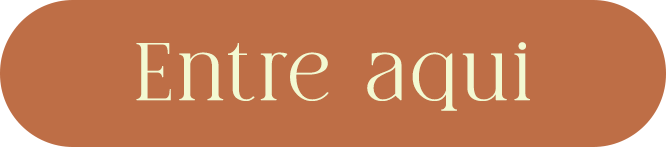
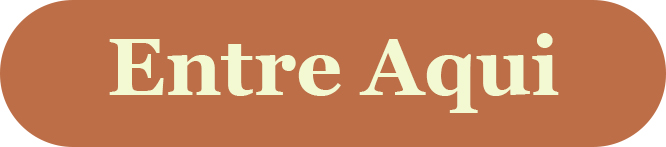
Alteração do botão da página index

Changed region(s): [[0.1502, 0.2449, 0.5105, 0.7075], [0.5405, 0.2177, 0.8408, 0.7891]]

diff --git a/SRC/index.html b/SRC/index.html
@@ -9,13 +9,16 @@
 <body>
 
 <center>
-    <img src="../SRC/imagens/logo.jpg" width="229" height="307" alt="logo">
+    <img src="../SRC/imagens/logo.jpg" width="229" height="307"alt="logo">
     <br>
     <br>
     <br>
     <header><h1>Bem Vindo</h1></header>
-    <a href="../SRC/Pages/Principal.html"><img src="../SRC/imagens/entre_aqui.jpg" width="222" height="49" alt="botão 'entre aqui'"></a>
-
+    <table>
+    <tr>
+        <td><a href="../SRC/Pages/Principal.html"><img src="../SRC/imagens/entre_aqui.jpg" width="222" height="49" onmouseover="this.src='../SRC/imagens/entre_aqui_on.jpg'" onmouseout="this.src='../SRC/imagens/entre_aqui.jpg'"  alt="botão 'entre aqui'"></a></td>
+    </tr>
+    </table>
     </center>
    
 </body>

diff --git a/SRC/Pages/Contatos.html b/SRC/Pages/Contatos.html
@@ -7,6 +7,7 @@
     <title>Contatos</title>
 </head>
 <body>
+    <center><h1>Contatos</h1></center>
 <center>
     <table>
     <tr>
